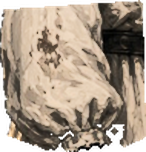
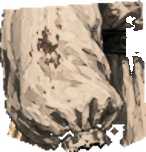
feat(visuals): overhaul grafico e atmosfera Silksong (6 pilastri)
- Ripristino e pulizia asset originali 2D di Ferruccio (busto, manica, mano, testa)
- Shader contorno a china scura (#14151df0), rim light dinamico e pseudo-normali volumetriche
- Scala personaggio aumentata (figure_screen_px: 255) e inquadratura boss serrata (min_zoom: 0.85)
- CanvasModulate con tinte ambient per stanza e illuminazione 2D reale (LIGHT_MODE_NORMAL) su rig e pupazzi
- Lampo di luce sul fendente/affondo e fascio ciano dall'occhio di Ferruccio
- Piattaforme con beccatelli barocchi scolpiti, catene forgiate e ombre d'appoggio sul pavimento
- Fenditure realistiche sui muri incrinati al posto del riquadro rigido pulsante
- Foreground sfocato e particelle continue a piu livelli di profondita (oro, piazza, ecc.)
- Layout UI: titolo d'area al 20% dello schermo e dissolvenza tasti senza sovrapposizioni

Changed region(s): [[0.8493, 0.1053, 1.0, 0.4737]]

diff --git a/PASSAGGIO-CONSEGNE.md b/PASSAGGIO-CONSEGNE.md
@@ -17,10 +17,16 @@ Ferruccio deve recuperare il bellissimo disegno 2D originale anche nella resa 3D
 - Leggere src/CLAUDE.md e docs/engine-reference/ prima di modificare API Godot.
 
 ## Ultimo eseguibile verificato
-E:/gioco/Test-Ferruccio/Ferruccio-Metroidvania-Sigilli-3D.exe
-SHA256: 5B3B450859515A9B125EE27E523F4ACF774DFF3A93024E907F28EE8FC5FBFD45
-Dimensione: 210.243.280 byte.
-Export riuscito con template ufficiale Godot 4.6, smoke test reale di avvio su Windows eseguito con esito positivo (processo reattivo e stabile). I vecchi eseguibili restano intatti nella stessa cartella.
+E:/gioco/Test-Ferruccio/Ferruccio-Silksong-Ultimo.exe (e copia Ferruccio-Ultimo.exe)
+SHA256: 55E1ECDF40BECF5FF7482F319F78C63B35364AA305CC19C3741D71E23B361237
+Dimensione: 361.163.824 byte.
+Export riuscito con template ufficiale Godot 4.6 (14 ottobre 2026). Overhaul visuale e profondità in stile Silksong:
+1. Scala personaggio aumentata (figure_screen_px: 255) e inquadratura boss serrata (min_zoom: 0.85).
+2. CanvasModulate reale integrato per stanza (ambient th) e ricezione luce dinamica riattivata su rig e pupazzi (LIGHT_MODE_NORMAL), con fascio occhio e lampo fendente/affondo.
+3. Shader contorno a china scura (#14151df0), rim lighting e pseudo-normali volumetriche sul panneggio.
+4. Piattaforme ancorate con mensole e beccatelli barocchi scolpiti, catene forgiate e ombre d'appoggio a terra; fenditure realistiche sui muri incrinati.
+5. Foreground sfocato (scroll 1.35) e pulviscolo dorato/braci a più profondità.
+6. UI pulita con banner al 20% della vista e dissolvenza tasti senza sovrapposizioni.
 
 ## Funzioni introdotte
 - Mappatura completa Gamepad (Xbox/PlayStation):
